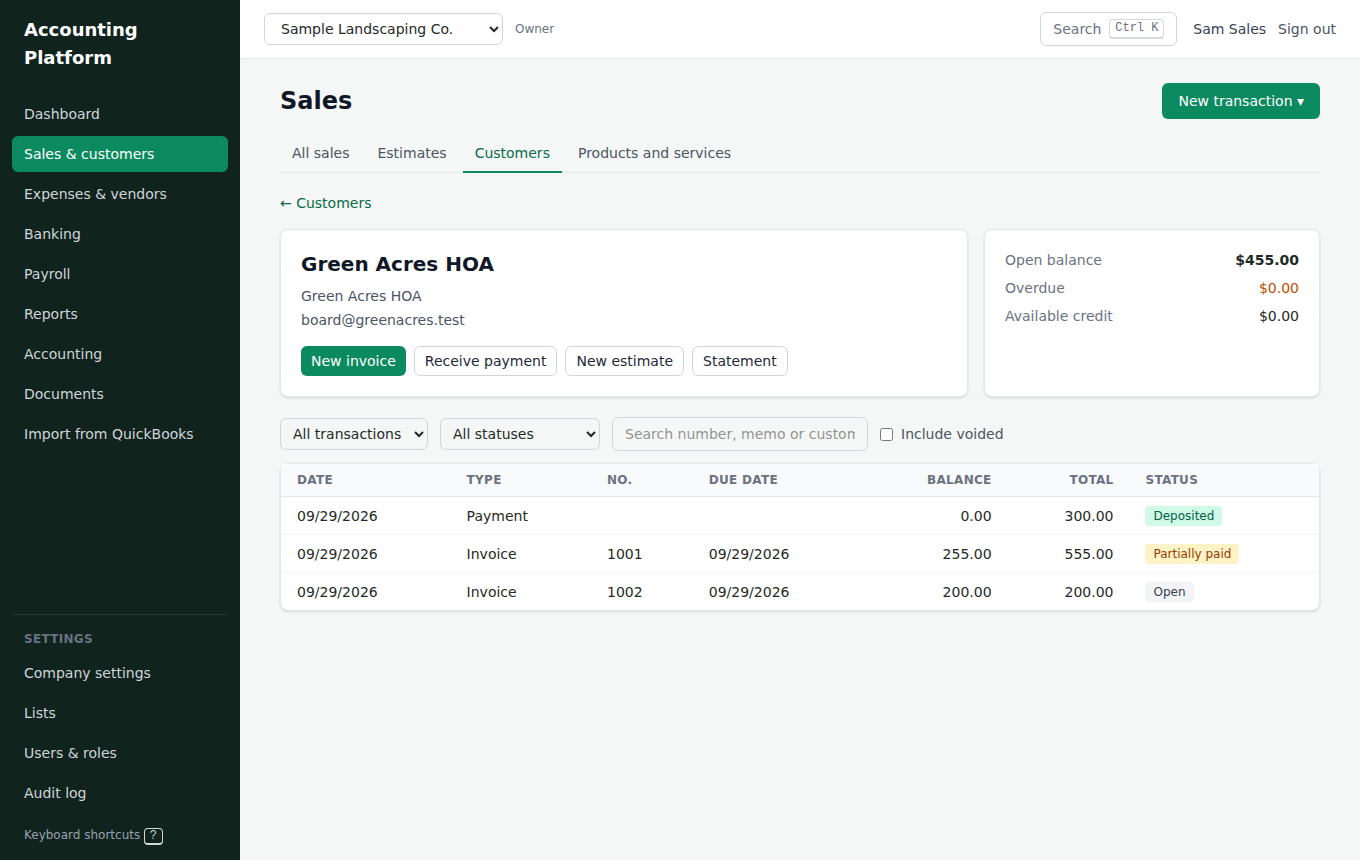
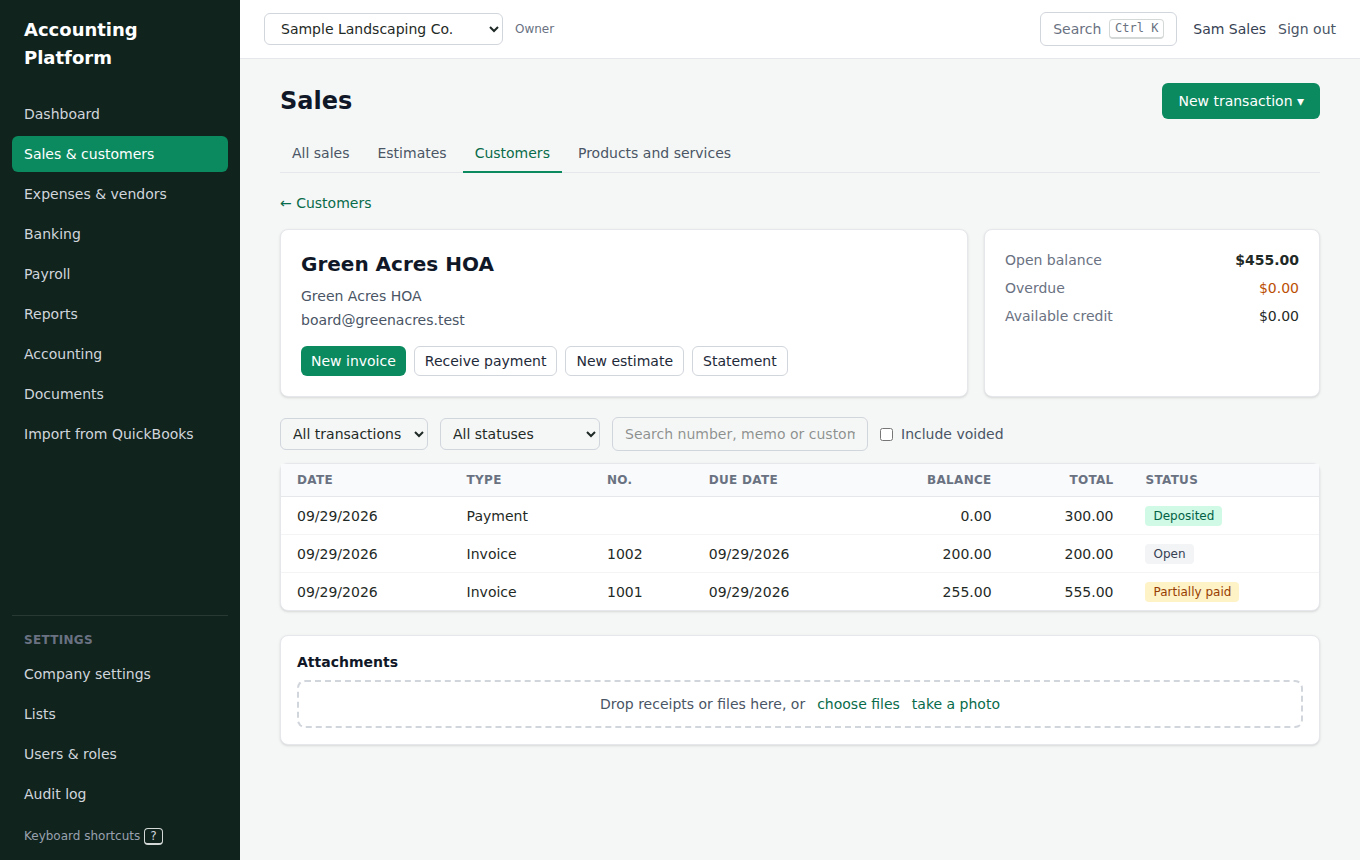
Phase 5 docs: report, ADR 0012, open questions, configuration, screenshots
Claude-Session: https://claude.ai/code/session_018Xjhpppf9gi6XhQLMfeupP

diff --git a/docs/phase-5.md b/docs/phase-5.md
@@ -1,0 +1,105 @@
+# Phase 5: Documents
+
+## Delivered
+
+- **Document library** (`g o`):
+  - Folders and subfolders, search across names, text, vendors, notes and tags, and type and tag
+    filters.
+  - Drag-and-drop multi-file upload, and **take a photo** on phones.
+  - Preview PDFs and images in the page.
+  - Rename, tags, notes, and moving documents between folders.
+  - **Download several documents as a ZIP.**
+  - Admins also see a **Deleted** view.
+- **Attachments everywhere:** an attachments panel with drag-and-drop on every transaction
+  (invoices, receipts, bills, expenses, checks, payments, deposits, bill payments, transfers,
+  journal entries), on customers, vendors and reconciliation reports. One document can be
+  attached to several records.
+- **Versions:**
+  - Upload a new version of a document; the earlier versions stay and can be downloaded.
+  - Nothing is ever overwritten.
+- **Safety:**
+  - The file type is detected from the bytes.
+  - Executables, HTML and SVG are refused.
+  - Every upload is **virus scanned before it can be used**. ClamAV runs in production; infected
+    files are refused and the attempt is audited.
+  - Files are **encrypted at rest**: AES-256-GCM per file locally, SSE-S3/KMS on S3.
+  - Files open through **5-minute links issued after the permission check**.
+- **Receipts inbox** (`g q`):
+  - Photograph, upload or email receipts and bills.
+  - Each one is **read automatically**: vendor, date, invoice number, due date, tax, total and
+    lines.
+  - **Review** shows the document next to a proposed expense, check or bill. Creating it posts the
+    transaction, attaches the document and learns the vendor and category for next time.
+  - Reading uses Claude (`DOCUMENT_AI=anthropic`) for photos and PDFs, or text heuristics for
+    text-based PDFs.
+- **Email-in:**
+  - Each company gets a private address (`<token>@<your inbound domain>`); forwarded receipts and
+    bills land in the inbox.
+  - The address can be changed or switched off.
+  - Messages must be signed by the mail provider.
+- **Retention:**
+  - Company settings hold the retention period: default 7 years, at least 4.
+  - Deleting is **owners and admins only**, is audited, and is a soft delete. Files stay until the
+    retention period ends; then **purge** removes the bytes and keeps the record.
+- **Search** reads inside PDFs (text layer), Word, Excel, PowerPoint, CSV and text files, plus
+  vendors and invoice numbers read from receipts.
+- **Seed:** the demo company has:
+  - a lease in a Contracts folder;
+  - a W-9 on Green Supply Co.;
+  - a fuel receipt on the card expense;
+  - two documents in the receipts inbox: a Home Depot receipt and a Green Supply invoice, both
+    already read.
+
+## Configuration
+
+| Variable                                                             | Default      | Notes                                                                                    |
+| -------------------------------------------------------------------- | ------------ | ---------------------------------------------------------------------------------------- |
+| `DOCUMENT_STORAGE`                                                   | `local`      | `s3` is required in production                                                           |
+| `DOCUMENT_STORAGE_DIR`                                               | `.documents` | Local encrypted files                                                                    |
+| `S3_BUCKET`, `S3_REGION`, `S3_ACCESS_KEY_ID`, `S3_SECRET_ACCESS_KEY` |              | Required with `s3`                                                                       |
+| `S3_ENDPOINT`, `S3_FORCE_PATH_STYLE`                                 |              | MinIO, R2 and other S3-compatible stores                                                 |
+| `S3_SSE`, `S3_KMS_KEY_ID`                                            | `AES256`     | `aws:kms` with a KMS key                                                                 |
+| `MAX_UPLOAD_MB`                                                      | `25`         |                                                                                          |
+| `VIRUS_SCANNER`                                                      | `dev`        | `clamd` is required in production (`CLAMD_HOST`, `CLAMD_PORT`)                           |
+| `DOCUMENT_AI`                                                        | `heuristic`  | `anthropic` needs `ANTHROPIC_API_KEY`; `DOCUMENT_AI_MODEL` defaults to `claude-opus-5-5` |
+| `INBOUND_EMAIL_DOMAIN`, `INBOUND_EMAIL_SECRET`                       |              | Email-in; the provider posts raw MIME to `/api/inbound/email` with an HMAC signature     |
+
+## Demo script
+
+1. Run `pnpm db:migrate && pnpm db:seed && pnpm dev` and sign in as `demo@example.com`.
+2. Press `g o`:
+   - Open **Contracts** and preview the yard lease.
+   - Search `rent`: the lease is found by the text inside the PDF.
+3. Drop a few files on the page, tick two and choose **Download 2 as ZIP**.
+4. Press `g q`. The Home Depot receipt and the Green Supply invoice have been read. **Review** the
+   invoice: it proposes a **bill** with the invoice number and due date. Choose Green Supply Co.
+   and a category, then **Create bill**.
+5. Upload another Home Depot receipt to the inbox and review it: the vendor and category chosen
+   before are filled in.
+6. Open **Expenses**, then the new bill: the invoice is attached.
+7. In **Company settings › Documents**, see the retention period and the email-in address (when
+   `INBOUND_EMAIL_DOMAIN` is set).
+
+## Tests
+
+| Suite                   | Count | Highlights                                                                                                                                                                                                                                                                                                                                                                                                                                                                                                                                                                               |
+| ----------------------- | ----- | ---------------------------------------------------------------------------------------------------------------------------------------------------------------------------------------------------------------------------------------------------------------------------------------------------------------------------------------------------------------------------------------------------------------------------------------------------------------------------------------------------------------------------------------------------------------------------------------- |
+| `packages/shared`       | 110   | +16: file type detection (each accepted type, Office kinds, refused executables/HTML/SVG/invalid UTF-8, multi-byte edge), file name cleaning, tag and retention schemas, extraction schema (decimal strings, ISO dates)                                                                                                                                                                                                                                                                                                                                                                  |
+| `packages/crypto`       | 13    | Unchanged                                                                                                                                                                                                                                                                                                                                                                                                                                                                                                                                                                                |
+| `packages/db`           | 52    | +7: versions written once, no deletes by the app role, delete state rules, link types, tenant isolation, folder names, alias format, email-in lookup without a tenant context, unique inbox tokens                                                                                                                                                                                                                                                                                                                                                                                       |
+| `apps/api`              | 190   | +50: SigV4 against AWS's published examples; encrypted local store (wrong AAD, tampering, overwrite, path tricks); S3 headers and pre-signed URLs; clamd INSTREAM against a fake daemon; text extraction; receipt heuristics, normalization and the Claude extractor against a fake API; signed tokens; upload/type/virus/size rules; downloads without a session; forged links; ZIP; versions; search; folders; attachments; receipt → expense with learning; bill drafts; email-in (signature, unknown and changed addresses, background reading); delete/restore/purge with retention |
+| `apps/web` (Playwright) | 7     | +1: upload two files, refused file, preview and tags, full-text search, folders and move, ZIP download, receipts inbox upload and reading, review → create expense, attachment on the expense, settings                                                                                                                                                                                                                                                                                                                                                                                  |
+
+## Known gaps and decisions for later phases
+
+- **HEIC photos** are stored and scanned but not converted or previewed (see open questions).
+  Phones can usually be set to send JPEG.
+- **Scanned PDFs and photos** are read only with Claude (`DOCUMENT_AI=anthropic`); the heuristics
+  need a text layer. There is no local OCR engine.
+- **Purge** is manual (admins) until background jobs arrive (Phase 12). **Email-in** needs a mail
+  provider's inbound webhook to be configured.
+- **Payroll records** (employees, pay runs, tax filings) join the attachment targets with Phase 8.
+- Files are scanned at upload only. **Re-scanning stored files** when virus signatures update is
+  a Phase 12 job.
+- **QuickBooks attachments** are downloaded into this library by the QuickBooks migration
+  (Phase 6).

diff --git a/docs/adr/0012-documents.md b/docs/adr/0012-documents.md
@@ -1,0 +1,170 @@
+# ADR 0012: Documents, receipt capture and email-in (Phase 5)
+
+- Status: Accepted
+- Date: 2026-09-29
+
+## Context
+
+Phase 5 of the master plan covers:
+
+- attaching files to any record;
+- a document library with folders, tags, search and bulk download;
+- mobile camera capture;
+- email-in per company;
+- OCR/AI receipt capture that proposes an expense or bill and learns from corrections;
+- versioning, virus scanning, encryption at rest, short-lived download links and retention.
+
+Files are the most sensitive and the most hostile input the product accepts.
+
+## Decision
+
+### Documents, versions and links
+
+- A **document** is a named record: folder, tags, note, source (upload, camera, email), inbox
+  status and soft-delete state.
+- **Versions** are separate rows. Each has its own storage key and is written once; a new upload
+  is a new version, never an overwrite.
+- A **link** attaches a document to a record: transaction, customer, vendor, item, account,
+  reconciliation, estimate or purchase order. The link table is polymorphic, so the API checks
+  that the record exists in the company. One document can support several records.
+- Payroll entities (employee, pay run, tax filing) are added to the link types when they exist.
+
+### File types come from the bytes
+
+The type is detected from magic numbers, never the name or the browser's content type.
+
+| Accepted                                                                                        | Refused                                                                                          |
+| ----------------------------------------------------------------------------------------------- | ------------------------------------------------------------------------------------------------ |
+| PDF, JPEG, PNG, GIF, WebP, HEIC, Office Open XML and 97–2003 Office files, CSV, UTF-8 text, ZIP | Everything else, including executables and HTML/SVG/XML (they could run script if ever rendered) |
+
+- Only PDFs and JPEG/PNG/GIF/WebP images are shown inline. Everything else downloads with
+  `Content-Disposition: attachment`.
+- Every file response sends `X-Content-Type-Options: nosniff`, `Cache-Control: private,
+no-store` and a restrictive CSP (sandboxed except for PDFs, which need the browser's viewer).
+- HEIC photos are stored but not converted: that needs libheif/HEVC, which has patent-licensing
+  questions (see open questions).
+
+### Virus scanning before availability
+
+- Every upload is scanned before it is stored:
+  - **Infected**: the file is refused, never stored, and the attempt is audited.
+  - **Scanner error**: the file is stored as "not scanned" and can't be downloaded, previewed,
+    read or zipped until "Scan again" succeeds.
+- `VirusScanner` implementations:
+  - **ClamAV** over clamd's `INSTREAM` protocol (required in production);
+  - a **dev** scanner that flags only the EICAR test file;
+  - **none**, refused in production.
+- Scans run inside the upload request. Uploads are capped at `MAX_UPLOAD_MB` (default 25).
+
+### Storage and encryption at rest
+
+`ObjectStore` has two implementations:
+
+- **Local** (development, tests):
+  - Each file is encrypted with AES-256-GCM under a random data key.
+  - The data key is wrapped with `FieldEncryptor`, with AAD `document_version:<id>`, and stored
+    on the version row.
+  - A file on disk is useless without the database and the master key, and a key can't be moved
+    to another version.
+  - Files are written with `O_EXCL` (never overwritten) and mode 600.
+- **S3** or any S3-compatible store (MinIO, R2):
+  - Server-side encryption (SSE-S3 or SSE-KMS).
+  - `If-None-Match: *` so objects are never overwritten.
+  - Requests are signed by a small in-house SigV4 implementation, tested against AWS's published
+    signing examples, instead of the AWS SDK.
+- Production requires S3 (see configuration).
+
+### Downloads: permission check, then a short-lived link
+
+`GET …/documents/:id/url` checks `documents.view`, audits the download and returns a link that
+expires in **5 minutes**:
+
+- **S3**: a pre-signed S3 URL, with the file name and type set through
+  `response-content-disposition` and `response-content-type`.
+- **Local**: `/api/files/<token>/<name>`.
+  - The token is HMAC-SHA256 over the company, the version, the disposition and the expiry.
+  - The HMAC key is derived from the field-encryption key with HKDF, so no new secret is needed.
+  - The trailing name is only a label for the browser's viewer.
+  - The route is public: the token is the credential, and it is bound to one version.
+- Next.js allows same-origin framing for `/api/files/*` only (for previews); every other route
+  stays `X-Frame-Options: DENY`.
+
+### Search
+
+- Text is extracted at upload from PDFs with a text layer (unpdf), Word, Excel and PowerPoint
+  (only the text parts are inflated, as a ZIP-bomb guard), CSV and plain text.
+- A `tsvector` combines, by weight:
+  - **A**: name and tags;
+  - **B**: note, email sender and subject, and the vendor and invoice number read from a receipt;
+  - **C**: the file's text.
+- The query uses both the `english` configuration (stemming) and `simple` (exact names), plus a
+  name substring match.
+- Scanned images have no text layer; the receipt reading adds their vendor and number.
+
+### Receipt and bill capture
+
+- A `ReceiptExtractor` returns the document type, vendor, dates, invoice number, currency,
+  subtotal, tax, total, payment method and lines.
+- **Claude** (`DOCUMENT_AI=anthropic`) reads photos and PDFs:
+  - one Messages API call with the image or PDF;
+  - structured output (a Zod schema, parsed by the SDK), `effort: low` and model
+    `DOCUMENT_AI_MODEL` (default `claude-opus-5-5`);
+  - the server-side refusal fallback is enabled.
+- **Heuristics** (`heuristic`, the development default) read text-layer PDFs and text: labelled
+  totals, tax, dates, "Invoice No." and due dates.
+- Whatever the source, values are normalized: amounts become decimal strings (never floats) and
+  dates become ISO strings.
+- The **draft**:
+  - A bill when the document is an invoice; otherwise an expense.
+  - The vendor comes from a learned alias first, then name matching.
+  - The category comes from the alias, then the vendor's default.
+  - It uses one line for the total, or the itemized lines when they (plus tax) add up to it.
+- The person reviews the draft in the normal expense/check/bill form, next to the document.
+  Creating it:
+  - posts through `PurchaseDocumentsService` (and so `PostingService`);
+  - attaches the document to the new transaction;
+  - takes it out of the inbox;
+  - **learns**: the normalized vendor name read from the receipt (for example `HOME DEPOT`) maps
+    to the vendor and first category the person chose.
+- Heuristic readings run inside the upload request. Claude readings run in the background, and
+  the inbox polls for them.
+
+### Email-in
+
+- Each company has an address `<token>@INBOUND_EMAIL_DOMAIN`:
+  - The token is 20 random base-36 characters.
+  - It can be regenerated, which stops the old address.
+  - It can be switched off.
+- The mail provider posts each message as raw MIME to `POST /inbound/email`, signed with
+  HMAC-SHA256 (`INBOUND_EMAIL_SECRET`) in `x-inbound-signature`. The route is exempt from the
+  CSRF header check and authenticated by that signature.
+- The recipient is looked up through a `security definer` function that returns only the owning
+  company, as for Plaid webhooks. Unknown or disabled addresses are accepted and dropped, so a
+  sender learns nothing.
+- What is kept from a message:
+  - each attachment (up to 20), except small inline images such as logos;
+  - or, if there are none, the message text.
+- Each item becomes an inbox document (source `email`, with sender and subject) and is read in
+  the background. Files that aren't accepted are skipped; the rest of the message is kept.
+
+### Retention and deletion
+
+- Deleting is a soft delete, **owners and admins only**, and is audited. The document is hidden
+  from everyone else but kept, with its bytes, for the company's retention period: default 7
+  years, minimum 4 (employment tax records).
+- **Restore** is available until then.
+- **Purge** removes the bytes of deleted documents past retention. Metadata, hashes and the audit
+  trail stay. Admins can run it now; a scheduled job comes with Phase 12.
+- `acct_app` has no `DELETE` on documents or versions.
+
+## Consequences
+
+- Each file is used the same way everywhere: scanned, encrypted, versioned, linked and
+  searchable.
+- Expenses and bills created from receipts are ordinary transactions. They appear in reports,
+  1099 tracking and bank-feed matching (a receipt entered first is matched when the bank
+  transaction arrives).
+- Sending receipts to Anthropic is a data-processing decision for the product owner (see open
+  questions). It is off unless `DOCUMENT_AI=anthropic`.
+- There is no in-app OCR for scanned PDFs without AI reading: the text heuristics need a text
+  layer.

diff --git a/CLAUDE.md b/CLAUDE.md
@@ -32,7 +32,9 @@ A single package: `pnpm --filter @acct/api test`, `pnpm --filter @acct/db test`,
   bill payments/pay bills, checks and check printing, expenses, credit card credits, purchase
   orders, 1099 in `vendor-1099.ts`), banking (transfers, registers, reconciliation, bank feed
   For Review/rules/import, connections through `BankDataProvider` with Plaid and a mock in
-  `banking/providers/`), reports (A/R and A/P reports; cash basis in `cash-basis.ts`).
+  `banking/providers/`), documents (library, versions, links, receipts inbox and reading,
+  email-in; storage, scanning and extraction behind interfaces in `documents/`), reports (A/R
+  and A/P reports; cash basis in `cash-basis.ts`).
   The A/R and A/P subledgers share one engine: `ledger/subledger.ts`.
 - `apps/web`: Next.js 16 (App Router) + TanStack Query + Tailwind 4. Calls the API only via `/api/*`.
 - `packages/db`: plain-SQL migrations, migrator, Kysely types, `withTenant()`, `createTestDatabase()`.
@@ -89,6 +91,11 @@ A single package: `pnpm --filter @acct/api test`, `pnpm --filter @acct/db test`,
   previews, the API re-parses. External calls (Plaid) go through `BankDataProvider`; tests use the
   mock or a fake `fetch`, never the network.
 - Transaction links in the web go through `apps/web/src/lib/links.ts` (`txnHref`).
+- Files: detect types from bytes (`detectFileType`), never trust names or browser types. Bytes go
+  through `ObjectStore` (never the filesystem directly), are scanned by `VirusScanner` before they
+  are usable, and are downloaded only through `DocumentsService.url()` (permission check, 5-minute
+  link). Receipt reading goes through `ReceiptExtractor`; tests use fakes, never the network
+  (ADR 0012).
 - Database errors map to HTTP in `common/pg-error.filter.ts`; add friendly messages for new unique
   indexes there.
 
@@ -99,7 +106,7 @@ A single package: `pnpm --filter @acct/api test`, `pnpm --filter @acct/db test`,
 - [x] Phase 2: Sales & A/R (invoices, payments, deposits, estimates, statements, A/R reports, cash basis)
 - [x] Phase 3: Purchases & A/P (bills, pay bills, checks + printing, expenses, POs, vendor credits, 1099, A/P reports)
 - [x] Phase 4: Banking (registers, transfers, reconciliation, file imports, bank rules, Plaid feeds)
-- [ ] Phase 5: Documents
+- [x] Phase 5: Documents (library, attachments, versions, scanning, encrypted storage, receipt capture, email-in, retention)
 - [ ] Phase 6: QuickBooks migration
 - [ ] Phase 7: Reports suite, sales tax, budgets
 - [ ] Phase 8: Payroll core

diff --git a/docs/open-questions.md b/docs/open-questions.md
@@ -74,3 +74,21 @@ Add new questions here instead of guessing.
     limits it to accountant users. Should it need the accountant or admin role?
 25. **Bank feed transactions from closed periods:** they can be downloaded and reviewed, but
     adding them needs the closing-date password. Should they be excluded automatically instead?
+
+## Documents (Phase 5)
+
+26. **AI receipt reading and data processing:** reading receipts with Claude sends the file to
+    Anthropic's API. Is that acceptable for your clients under your privacy policy and client
+    agreements, and do you want a zero-data-retention arrangement first? Until decided,
+    `DOCUMENT_AI=heuristic` reads only text-based PDFs.
+27. **HEIC photos:** converting iPhone HEIC photos to JPEG needs an HEVC decoder (libheif), which
+    has patent-licensing implications. Should we license a converter, convert in the browser
+    before upload, or ask users to set their phones to JPEG?
+28. **Retention:** is 7 years the right default for your clients (IRS guidance ranges from 3 to 7
+    years; employment tax records at least 4)? Should some document types (payroll, 1099) have
+    their own longer periods?
+29. **Email-in senders:** today any sender who knows a company's address can add documents to its
+    inbox (they are scanned and wait for review). Should we restrict senders to company users or
+    an allow-list?
+30. **Storage and malware scanning in production:** which S3 region, bucket policy and KMS key,
+    and will ClamAV run as a sidecar or a managed scanning service?
